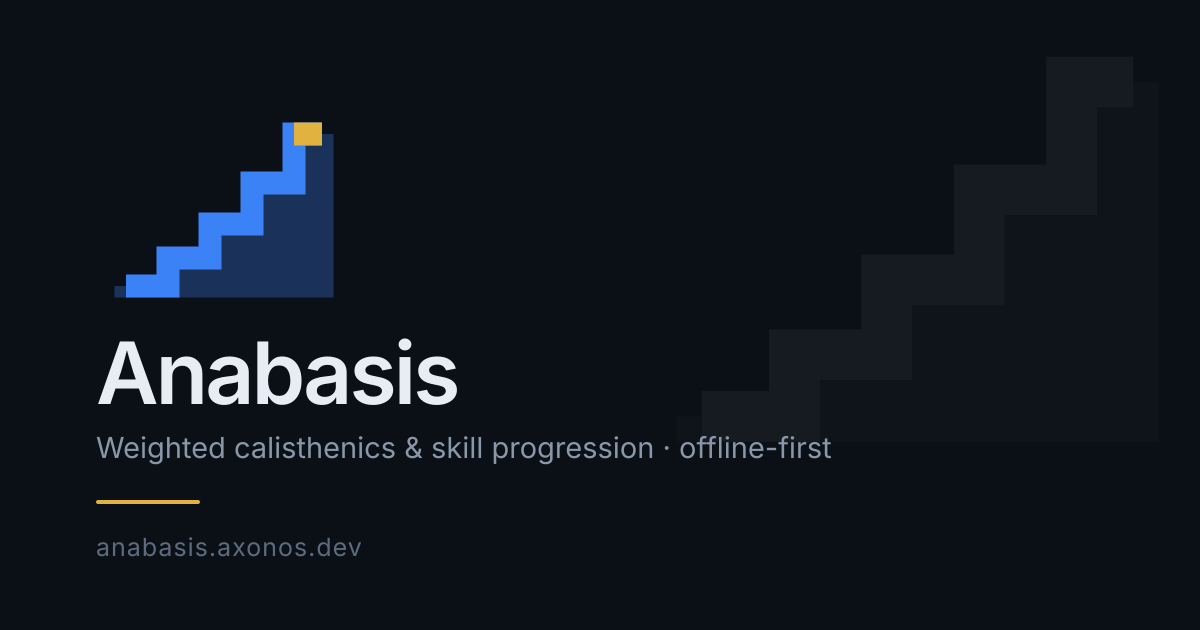
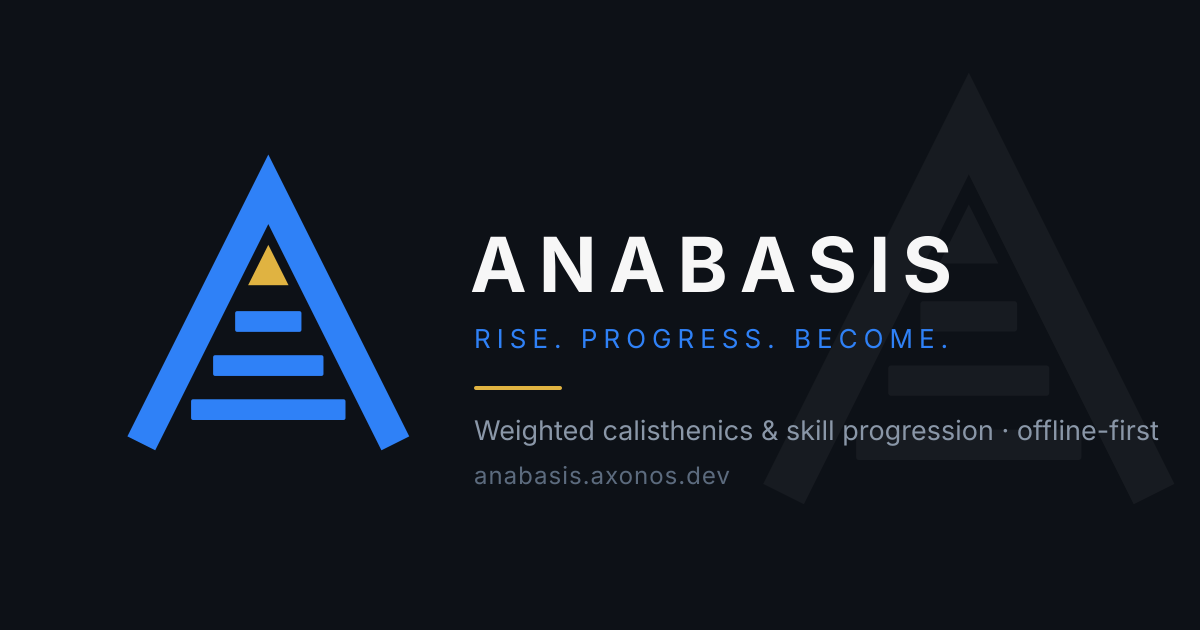
brand: adopt the "Α with a ladder" monogram + charcoal/blue system
Reworks the identity around a monogram instead of a pictogram. The mark is
the Greek Α of Ἀνάβασις, with the staircase living inside its counter and a
summit triangle on top — three readings in one shape (initial, ladder, peak).
The previous "Ascent" stair was a decent glyph but nothing stopped it from
belonging to any analytics app; this one can't.

- rungs widen toward the base (the climb narrows as it rises); a 2-rung
  variant ships for ≤24px, where three rungs close up optically
- summit triangle can go gold, reusing the app's gold=achievement rule
- the whole mark is scaled 0.9 inside the viewBox because the apex miter
  overshoots ~54u past the joint
- all assets regenerate from one source (scripts/gen-brand-assets.mjs)
- OG card rebuilt around the new silhouette + "RISE. PROGRESS. BECOME."

Colour system moves off warm grey to Deep Charcoal (#0D1117) with Electric
Blue as --primary. The warm base was chosen when the accent was gold; against
blue it dragged everything toward purple. A cool base also lets the gold of a
PR read as a true complement. --primary is action, --gold is achievement, and
they are now documented as non-interchangeable.

diff --git a/src/components/Logo.tsx b/src/components/Logo.tsx
@@ -1,35 +1,55 @@
 import { cn } from '@/lib/utils';
 
 /**
- * Το σήμα του Anabasis.
+ * Το σήμα του Anabasis — «Άλφα με σκάλα».
  *
- * Δύο επίπεδα, μία ιδέα:
- *  1. Η **σκάλα** (stroke, currentColor) — η διαδρομή· κάθε skill/PR ένα σκαλί.
- *     Τα σκαλιά ΨΗΛΩΝΟΥΝ καθώς ανεβαίνεις (56→68→82→98 units): progressive
- *     overload, όχι μηχανική επανάληψη.
- *  2. Η **μάζα** από κάτω (30% opacity) — ο όγκος της δουλειάς που έχει γίνει.
- *     Δίνει βάρος ώστε να μη διαβάζεται ως γενικό εικονίδιο γραφήματος.
+ * Τρία νοήματα σε ένα σχήμα:
+ *  1. **Α** — το αρχικό του Ἀνάβασις (και το Λ/Α της κλασικής γεωμετρίας).
+ *  2. **Σκάλα** — τα σκαλιά μέσα στο counter· κάθε skill/PR ένα σκαλί ψηλότερα.
+ *     Πλαταίνουν καθώς κατεβαίνεις: η βάση είναι πλατιά, η κορυφή στενή.
+ *  3. **Κορυφή** — το τριγωνάκι στην κορυφή, που γίνεται χρυσό (`summit`)·
+ *     το χρυσό στο app σημαίνει πάντα personal record.
  *
- * Το τελευταίο σκαλί μπορεί να βαφτεί χρυσό (`summit`) — το χρυσό στο app
- * σημαίνει πάντα personal record, οπότε η κορυφή του σήματος είναι το PR.
+ * Το προηγούμενο σήμα ήταν μια λεπτή κλιμακωτή γραμμή — διαβαζόταν ως
+ * γενικό εικονίδιο γραφήματος. Αυτό είναι μονόγραμμα: δεν μπορεί να ανήκει
+ * σε άλλη εφαρμογή.
  *
- * Γεωμετρία: viewBox 512, οπτικό κέντρο ελαφρώς πάνω από το γεωμετρικό
- * (y-extent 77..427). Miter joins + butt caps → αρχιτεκτονικό, όχι «φιλικό».
- * Διαβάζεται μέχρι τα 16px.
+ * Γεωμετρία: viewBox 512, apex (256,60) → πόδια (60,452)/(452,452), σκέλος 48u
+ * με miter join. Τα `rungs=2` είναι η εκδοχή για μικρά μεγέθη (favicon/16px),
+ * όπου τρία σκαλιά κλείνουν οπτικά μεταξύ τους.
  */
 
-const STAIR = 'M60 404 H144 V348 H228 V280 H312 V198 H396 V100 H452';
-const MASS = 'M37 404 H144 V348 H228 V280 H312 V198 H396 V100 H475 V427 H37 Z';
-const STROKE = 46;
+const LEG = 'M60 452 L256 60 L452 452';
+const STROKE = 48;
+
+/** Προϋπολογισμένα από τη γεωμετρία του counter (βλ. scripts/gen-brand-assets.mjs). */
+const RUNGS_3 = [
+  { x: 204.8, y: 248, w: 102.3 },
+  { x: 170.8, y: 316, w: 170.3 },
+  { x: 136.8, y: 384, w: 238.3 },
+];
+const RUNGS_2 = [
+  { x: 185.8, y: 286, w: 140.3 },
+  { x: 141.8, y: 374, w: 228.3 },
+];
+const APEX_3 = 'M256 145.7 L224.8 208 L287.2 208 Z';
+const APEX_2 = 'M256 145.7 L211.8 234 L300.2 234 Z';
 
 export function Logo({
   className,
   summit = false,
+  rungs = 3,
 }: {
   className?: string;
-  /** Βάψε το τελευταίο σκαλί χρυσό (κορυφή = PR). Για app icon / splash. */
+  /** Χρυσή κορυφή (= PR). Για app icon / splash / branding. */
   summit?: boolean;
+  /** 2 για μικρά μεγέθη (≤24px), 3 για κανονικά. */
+  rungs?: 2 | 3;
 }) {
+  const steps = rungs === 2 ? RUNGS_2 : RUNGS_3;
+  const apex = rungs === 2 ? APEX_2 : APEX_3;
+  const h = rungs === 2 ? 40 : 32;
+
   return (
     <svg
       viewBox="0 0 512 512"
@@ -37,34 +57,32 @@ export function Logo({
       role="img"
       aria-label="Anabasis"
     >
-      <path d={MASS} fill="currentColor" opacity={0.3} />
-      <path
-        d={STAIR}
-        fill="none"
-        stroke="currentColor"
-        strokeWidth={STROKE}
-        strokeLinecap="butt"
-        strokeLinejoin="miter"
-      />
-      {summit && (
+      {/* Το miter join στην κορυφή προεξέχει ~54u πάνω από το apex — το 0.9
+          κρατά ολόκληρο το σήμα μέσα στο safe area του 512 box. */}
+      <g transform="translate(256,256) scale(0.9) translate(-256,-256)">
         <path
-          d="M396 100 H452"
+          d={LEG}
           fill="none"
-          stroke="hsl(var(--gold))"
+          stroke="currentColor"
           strokeWidth={STROKE}
           strokeLinecap="butt"
+          strokeLinejoin="miter"
         />
-      )}
+        <path d={apex} fill={summit ? 'hsl(var(--gold))' : 'currentColor'} />
+        {steps.map((s) => (
+          <rect key={s.y} x={s.x} y={s.y} width={s.w} height={h} rx={3} fill="currentColor" />
+        ))}
+      </g>
     </svg>
   );
 }
 
-/** Λογότυπο + όνομα — για headers. */
+/** Λογότυπο + όνομα — για headers. Το wordmark είναι tracked, σαν το brand sheet. */
 export function Wordmark({ className }: { className?: string }) {
   return (
     <span className={cn('flex items-center gap-2', className)}>
-      <Logo className="h-6 w-6 text-primary" />
-      <span className="text-lg font-semibold tracking-tight">Anabasis</span>
+      <Logo className="h-7 w-7 text-primary" rungs={2} />
+      <span className="text-base font-bold uppercase tracking-[0.18em]">Anabasis</span>
     </span>
   );
 }

diff --git a/src/styles/globals.css b/src/styles/globals.css
@@ -4,37 +4,40 @@
 
 /*
  * Χρωματικό σύστημα Anabasis.
- * Signature: χρυσό-χάλκινο «ανόδου» (--primary) — το θέμα του app είναι η
- * ανάβαση προς την κορυφή, οπότε το accent είναι το χρώμα της κατάκτησης.
- * Χρησιμοποιείται σε primary actions + επιτεύγματα (PR/mastery).
+ *
+ * Δύο χρώματα με ξεχωριστές δουλειές — ποτέ εναλλάξιμα:
+ *  --primary (Electric Blue) = δράση & πρόοδος (κουμπιά, ενεργά states, ring)
+ *  --gold                    = ΕΠΙΤΕΥΓΜΑ (PR, mastery, κορυφή του σήματος)
+ * Αν το χρυσό γινόταν και primary, το PR θα έπαυε να ξεχωρίζει.
+ * Το accent είναι εναλλάξιμο από τον χρήστη (lib/theme.ts) — το χρυσό όχι.
  */
 @layer base {
   :root {
-    --background: 40 20% 99%;
-    --foreground: 30 12% 10%;
+    --background: 210 20% 99%;
+    --foreground: 215 25% 11%;
 
     --card: 0 0% 100%;
-    --card-foreground: 30 12% 10%;
+    --card-foreground: 215 25% 11%;
 
-    /* Χρυσό-χάλκινο, πιο σκούρο σε light theme για contrast σε λευκό */
-    --primary: 32 78% 42%;
-    --primary-foreground: 40 40% 98%;
+    /* Πιο σκούρο μπλε σε light theme για contrast σε λευκό */
+    --primary: 214 85% 46%;
+    --primary-foreground: 0 0% 100%;
 
-    --secondary: 40 12% 95%;
-    --secondary-foreground: 30 10% 12%;
+    --secondary: 214 15% 95%;
+    --secondary-foreground: 215 25% 12%;
 
-    --muted: 40 10% 95%;
-    --muted-foreground: 30 6% 42%;
+    --muted: 214 14% 95%;
+    --muted-foreground: 215 12% 42%;
 
-    --accent: 40 30% 94%;
-    --accent-foreground: 30 10% 12%;
+    --accent: 214 30% 94%;
+    --accent-foreground: 215 25% 12%;
 
     --destructive: 0 84% 60%;
     --destructive-foreground: 0 0% 98%;
 
-    --border: 40 10% 88%;
-    --input: 40 10% 88%;
-    --ring: 32 78% 42%;
+    --border: 214 14% 88%;
+    --input: 214 14% 88%;
+    --ring: 214 85% 46%;
 
     /* Χρυσό επίτευξης — PR badges, mastery. Πιο λαμπερό από το primary. */
     --gold: 42 92% 50%;
@@ -49,32 +52,37 @@
   }
 
   .dark {
-    /* Ζεστό, όχι ουδέτερο γκρι — ταιριάζει με το χρυσό accent */
-    --background: 30 10% 5%;
-    --foreground: 40 15% 96%;
+    /*
+     * «Deep Charcoal» #0D1117 — ψυχρό ανθρακί, όχι ζεστό γκρι.
+     * Ήταν ζεστό όσο το accent ήταν χρυσό· με μπλε accent το ζεστό φόντο
+     * τραβούσε το μπλε προς το μωβ. Ψυχρή βάση = καθαρό μπλε + το χρυσό
+     * του PR ξεχωρίζει ακόμα περισσότερο (συμπληρωματικά).
+     */
+    --background: 215 21% 7%;
+    --foreground: 210 17% 96%;
 
-    --card: 30 9% 8%;
-    --card-foreground: 40 15% 96%;
+    --card: 215 20% 11%;
+    --card-foreground: 210 17% 96%;
 
-    /* Ζεστό χρυσό-amber· λάμπει σε σκούρο φόντο χωρίς να τυφλώνει στις 6πμ */
-    --primary: 40 84% 56%;
-    --primary-foreground: 32 40% 8%;
+    /* Electric Blue — το accent του brand· λάμπει χωρίς να τυφλώνει στις 6πμ */
+    --primary: 212 90% 60%;
+    --primary-foreground: 215 40% 8%;
 
-    --secondary: 30 6% 13%;
-    --secondary-foreground: 40 15% 96%;
+    --secondary: 215 17% 16%;
+    --secondary-foreground: 210 17% 96%;
 
-    --muted: 30 6% 13%;
-    --muted-foreground: 40 8% 62%;
+    --muted: 215 17% 16%;
+    --muted-foreground: 215 12% 64%;
 
-    --accent: 32 20% 16%;
-    --accent-foreground: 40 15% 96%;
+    --accent: 215 20% 19%;
+    --accent-foreground: 210 17% 96%;
 
     --destructive: 0 63% 48%;
     --destructive-foreground: 0 0% 98%;
 
-    --border: 32 10% 16%;
-    --input: 32 10% 16%;
-    --ring: 40 84% 56%;
+    --border: 215 15% 20%;
+    --input: 215 15% 20%;
+    --ring: 212 90% 60%;
 
     --gold: 42 95% 58%;
 

diff --git a/src/components/LogoVariants.tsx b/src/components/LogoVariants.tsx
@@ -6,9 +6,35 @@ import { Logo } from './Logo';
  * ώστε μια μελλοντική αλλαγή να γίνεται με μάτια, όχι από μνήμη.
  */
 
-/** V2 — ΤΟ ΕΝΕΡΓΟ: προοδευτική σκάλα + μάζα + χρυσή κορυφή. */
-export function LogoAscent({ className }: { className?: string }) {
+/** V3 — ΤΟ ΕΝΕΡΓΟ: «Άλφα με σκάλα» + χρυσή κορυφή. */
+export function LogoAlphaLadder({ className }: { className?: string }) {
   return <Logo className={className} summit />;
+}
+
+/** V3b — Η εκδοχή μικρού μεγέθους (2 σκαλιά) — favicon/16px. */
+export function LogoAlphaLadderSmall({ className }: { className?: string }) {
+  return <Logo className={className} summit rungs={2} />;
+}
+
+/** V2 — Προοδευτική σκάλα + μάζα. Καλό σήμα, αλλά όχι μονόγραμμα. */
+export function LogoAscent({ className }: { className?: string }) {
+  return (
+    <svg viewBox="0 0 512 512" className={className} role="img" aria-label="Anabasis v2">
+      <path
+        d="M37 404 H144 V348 H228 V280 H312 V198 H396 V100 H475 V427 H37 Z"
+        fill="currentColor"
+        opacity={0.3}
+      />
+      <path
+        d="M60 404 H144 V348 H228 V280 H312 V198 H396 V100 H452"
+        fill="none"
+        stroke="currentColor"
+        strokeWidth={46}
+        strokeLinecap="butt"
+        strokeLinejoin="miter"
+      />
+    </svg>
+  );
 }
 
 /** V1 — Το πρώτο draft: λεπτή κλιμακωτή γραμμή με κουκκίδα. Πολύ «stock icon». */
@@ -56,8 +82,10 @@ export function LogoAlpha({ className }: { className?: string }) {
 }
 
 export const LOGO_VARIANTS = [
-  { key: 'ascent', label: 'Ascent (ενεργό)', Comp: LogoAscent },
-  { key: 'ascent-flat', label: 'Ascent — flat', Comp: LogoAscentFlat },
+  { key: 'alpha-ladder', label: 'Άλφα-σκάλα (ενεργό)', Comp: LogoAlphaLadder },
+  { key: 'alpha-ladder-sm', label: 'Άλφα-σκάλα — μικρό (2 σκαλιά)', Comp: LogoAlphaLadderSmall },
+  { key: 'ascent', label: 'v2 — Ascent', Comp: LogoAscent },
+  { key: 'ascent-flat', label: 'v2 — flat', Comp: LogoAscentFlat },
   { key: 'stair-v1', label: 'v1 draft', Comp: LogoStairV1 },
-  { key: 'alpha', label: 'Alpha (απορρίφθηκε)', Comp: LogoAlpha },
+  { key: 'alpha', label: 'Chevron (απορρίφθηκε)', Comp: LogoAlpha },
 ] as const;
